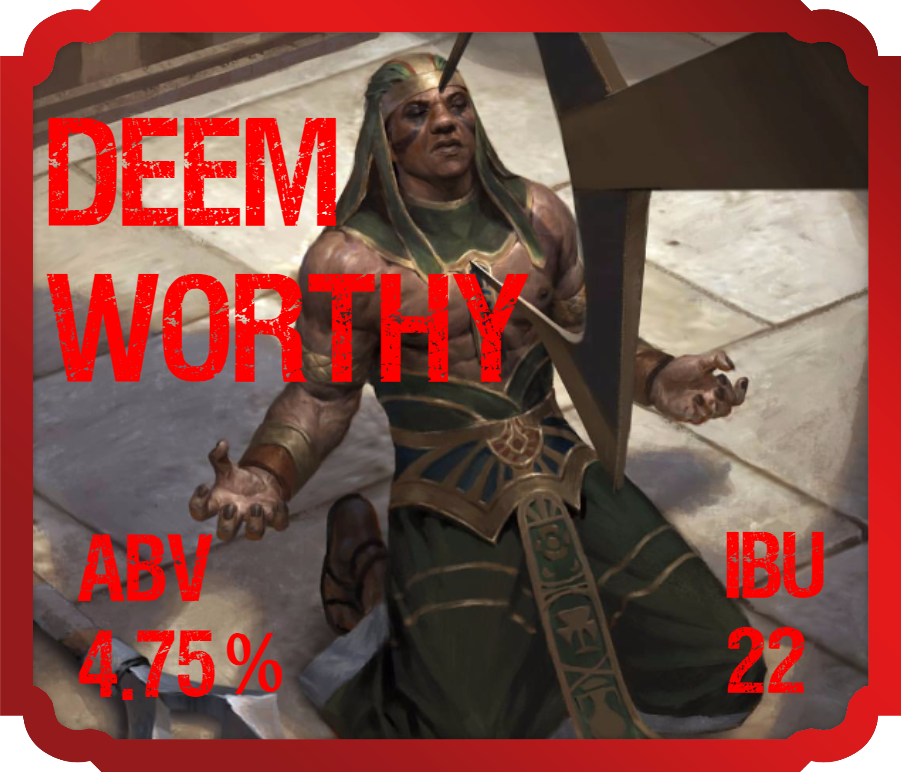
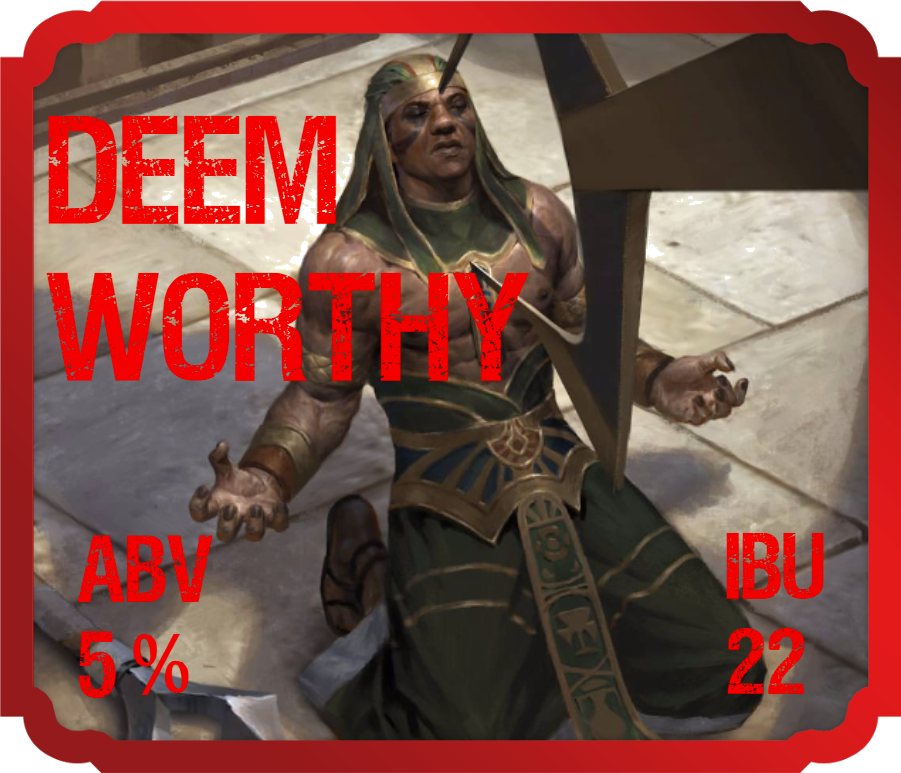
new beer

diff --git a/KegeratorMonitor/WebSite/index.html b/KegeratorMonitor/WebSite/index.html
@@ -199,7 +199,7 @@
     </div>
   </div>
 
-  <img id="beer_level_img_left" class="beer_level" src="beer_column_gold.jpg" style="display: none;" />
+  <img id="beer_level_img_left" class="beer_level" src="beer_column_dark.jpg" style="display: none;" />
   <img id="beer_level_img_right" class="beer_level" src="beer_column_gold.jpg" style="display: none;" />
 <table>
   <tr>
@@ -237,7 +237,7 @@
       <table>
         <tr>
           <td class="keg_right_title">
-            <img src='HelpingHandIpa.png' width='350'/>
+            <img src='DeemWorthy.png' width='350'/>
           </td>
         </tr>
         <tr>
